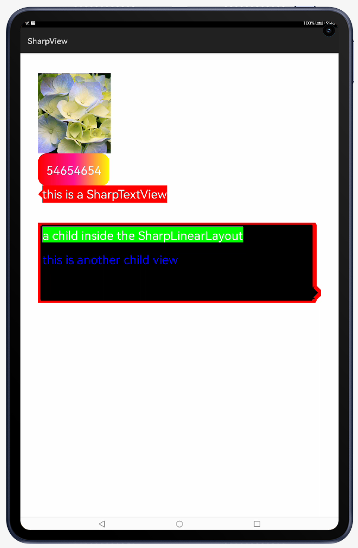
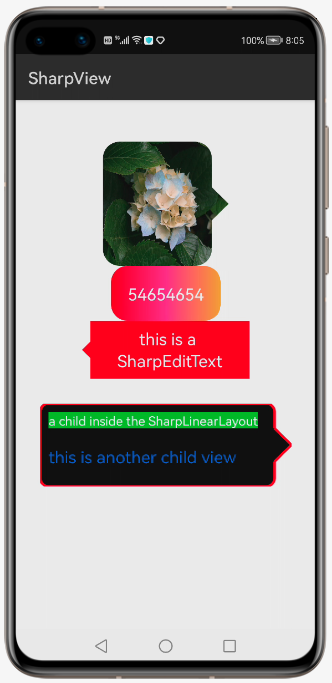
Resolved SharpImageView issues.

diff --git a/sharpview/src/main/java/com/zhaoxing/view/sharpview/SharpImageView.java b/sharpview/src/main/java/com/zhaoxing/view/sharpview/SharpImageView.java
@@ -15,6 +15,7 @@ import ohos.app.Context;
 import ohos.media.image.PixelMap;
 import ohos.media.image.common.AlphaType;
 import ohos.media.image.common.PixelFormat;
+import ohos.media.image.common.ScaleMode;
 import ohos.media.image.common.Size;
 import java.lang.ref.SoftReference;
 
@@ -50,7 +51,7 @@ public class SharpImageView extends Image implements SharpView, Component.DrawTa
         rect = new RectFloat();
         mSharpViewRenderProxy = new SharpViewRenderProxy(this, attrs);
         onSizeChanged();
-        addDrawTask(this::onDraw);
+        addDrawTask(this::onDraw, BETWEEN_BACKGROUND_AND_CONTENT);
     }
 
     @Override
@@ -65,6 +66,7 @@ public class SharpImageView extends Image implements SharpView, Component.DrawTa
         mPaint.setBlendMode(BlendMode.SRC_IN);
         mOutCanvas.drawPixelMapHolderRect(getPixelMapHolder(), rect, mPaint);
         mPaint.setBlendMode(null);
+        setPixelMap(null);
         canvas.drawPixelMapHolderRect(new PixelMapHolder(mSoftOutBitmap.get()), rect, rect, mPaint);
     }
 
@@ -72,7 +74,7 @@ public class SharpImageView extends Image implements SharpView, Component.DrawTa
         PixelMap.InitializationOptions initializationOptions = new PixelMap.InitializationOptions();
         initializationOptions.size = new Size(getWidth(), getHeight());
         initializationOptions.pixelFormat = PixelFormat.ARGB_8888;
-        initializationOptions.scaleMode = ohos.media.image.common.ScaleMode.CENTER_CROP;
+        initializationOptions.scaleMode = ohos.media.image.common.ScaleMode.FIT_TARGET_SIZE;
         PixelMap inBitmap = PixelMap.create(initializationOptions);
         PixelMap outBitmap = PixelMap.create(initializationOptions);
         inBitmap.setAlphaType(AlphaType.UNPREMUL);

diff --git a/sharpview/src/main/java/com/zhaoxing/view/sharpview/SharpDrawable.java b/sharpview/src/main/java/com/zhaoxing/view/sharpview/SharpDrawable.java
@@ -3,6 +3,7 @@ package com.zhaoxing.view.sharpview;
 import ohos.agp.colors.RgbColor;
 import ohos.agp.colors.RgbPalette;
 import ohos.agp.components.Component;
+import ohos.agp.components.Image;
 import ohos.agp.components.element.ShapeElement;
 import ohos.agp.render.Arc;
 import ohos.agp.render.Canvas;
@@ -182,6 +183,10 @@ class SharpDrawable extends ShapeElement {
             mSharpPath.lineTo(mPointFs[0].getPointX(), mPointFs[0].getPointY());
             mPaint.setColor(new Color(mBackgroundColor.asRgbaInt()));
             canvas.drawPath(mSharpPath, mPaint);
+
+            if (mComponent instanceof Image) {
+                return;
+            }
 
             mPaint.setColor(new Color(mBorderColor.asRgbaInt()));
             mPaint.setStyle(Paint.Style.STROKE_STYLE);
